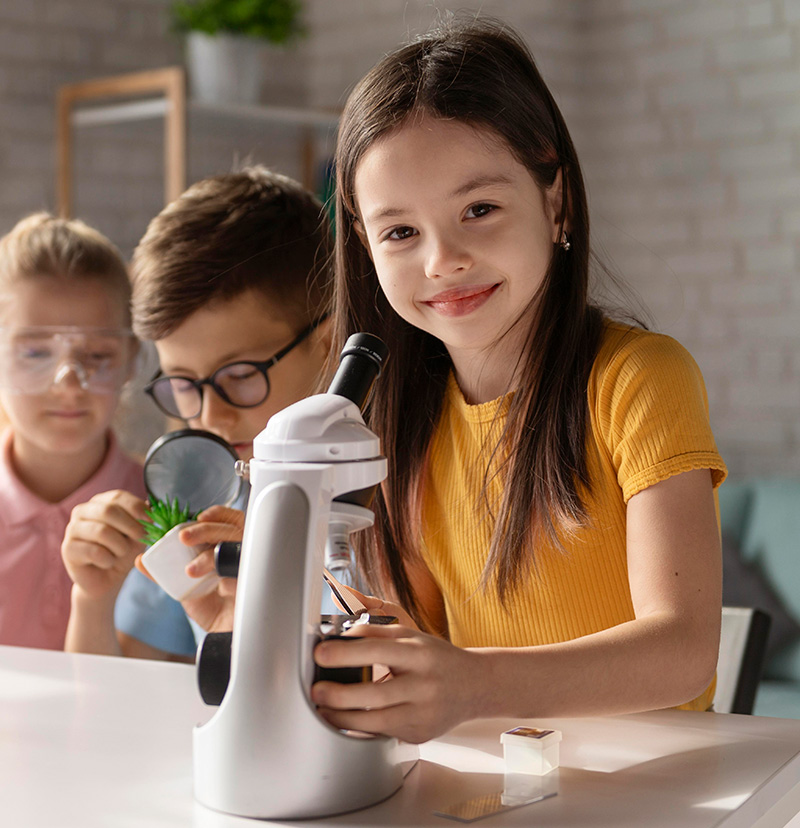
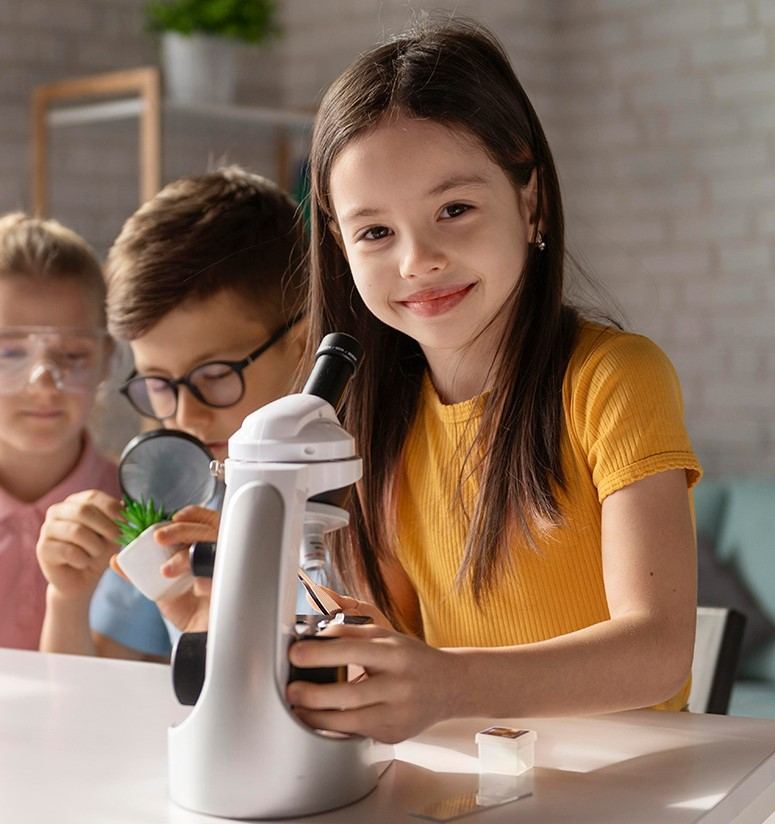
Add mobile layout

diff --git a/laba4/style.css b/laba4/style.css
@@ -8,26 +8,31 @@ html, body {
 header{
     display: flex;
     justify-content: space-between ;
-    padding: 1em 14em 1em 14em;
+    padding: 1em 13% 1em 13%;
+    min-width: 370px;
 }
 .main{
-    padding: 3em 14em 1em 14em;
+    padding: 3em 13% 3em 13%;
     display: flex;
     flex-direction: column;
+    min-width: 370px;
 }
 footer{
     background-color: #333333;
-    padding: 1em 3em 1em 3em;
+    display: flex;
+    justify-content: space-around;
+    padding: 2em 3em 2em 3em;
     text-align: center;
+    min-width: 370px;
+}
+#footer_text{
+    color: white;
+    width: 33%;
 }
 
 .menu_photo{
     max-height: 33px;
     width: auto;
-}
-footer p{
-    color: white;
-    padding: 0em 15em 0em 15em;
 }
 
 .upper_side {
@@ -39,9 +44,9 @@ footer p{
     align-items: flex-start;
 }
 #girl_and_teacher{
-    max-width: 310px;
-    padding: 13px;
-    box-shadow: 0px 0px 10px 8px #BFBFBF;
+    max-width: 294px;
+    padding: 12px;
+    box-shadow: 0px 0px 8px 9px rgba(73, 70, 70, 0.2);
     background-color: white;
     margin-right: -8rem;
 }
@@ -50,10 +55,12 @@ footer p{
     padding: 1.8em;
     font-size: 1.25rem;
     color: rgb(17, 17, 17);
+    line-height: 1.7;
 }
 #girls {
-    max-width: 500px;
-    margin-top: 8.5rem;
+    max-width: 524px;
+    /* max-height: 381px; */
+    margin-top: 7.5rem;
     align-self: flex-end;
 }
 
@@ -67,13 +74,51 @@ footer p{
 }
 a {
     color: #808080;
+    text-decoration: none;
+    padding: 0 0 5px 0;
+    border-style: none none solid;
+    border-color: #808080;
     /* font: 16px "Open-Sans", sans-serif; */
 }
 #boy_and_girls{
-    max-width: 420px;
-    box-shadow: 0px 0px 10px 8px #BFBFBF;
-    margin-top: -7.5rem;
+    max-width: 439px;
+    box-shadow: 0px 0px 8px 9px rgba(73, 70, 70, 0.2);
+    margin-top: -9.2rem;
 }
 #right_text{
     padding: 1em 2em 1em 0em;
+    font-size: 1.25rem;
+    line-height: 1.8;
+}
+
+@media (max-width: 1000px){
+    
+    .upper_side{
+        flex-direction: column;
+    }
+    .photo_container {
+        flex-direction: column;
+    }
+    .lower_side {
+        display: flex;
+        flex-direction: column;
+    }
+    #girls {
+        width: 100%;
+        min-width: 300px;
+        order: 2;
+        margin-top: -4rem;
+        z-index: -1;
+    }
+    #girl_and_teacher{
+        width: 100%;
+        min-width: 160px;
+    }
+    #boy_and_girls{
+        width: 100%;
+        min-width: 300px;
+    }
+    .lower_side{
+        
+    }
 }

diff --git a/laba4/index.html b/laba4/index.html
@@ -26,7 +26,7 @@
 
         <div class="lower_side">   
             <div id="right_text">
-                <h1>VIRTUAL OR IN-SCHOOL SCIENCE EXPERIENCES</h1>
+                <h3>VIRTUAL OR IN-SCHOOL SCIENCE EXPERIENCES</h3>
                 <p>Lorem ipsum dolor sit amet consectetur adipisicing elit. Nemo vero eligendi similique neque nostrum nobis quibusdam
                     at? A, veniam. Repellendus quod ipsa corporis harum voluptates sit similique dicta dignissimos delectus.</p>
                 <p> <a href="#">LEARN MORE</a></p>
@@ -35,7 +35,9 @@
         </div>
     </div>
     <footer>
-        <p>Sample text. Click to select the text box. Click again or double click to start editing the text.</p>
+        <div id="footer_text">
+            <p>Sample text. Click to select the text box. Click again or double click to start editing the text.</p>
+        </div>        
     </footer>
 </body>
 </html>
